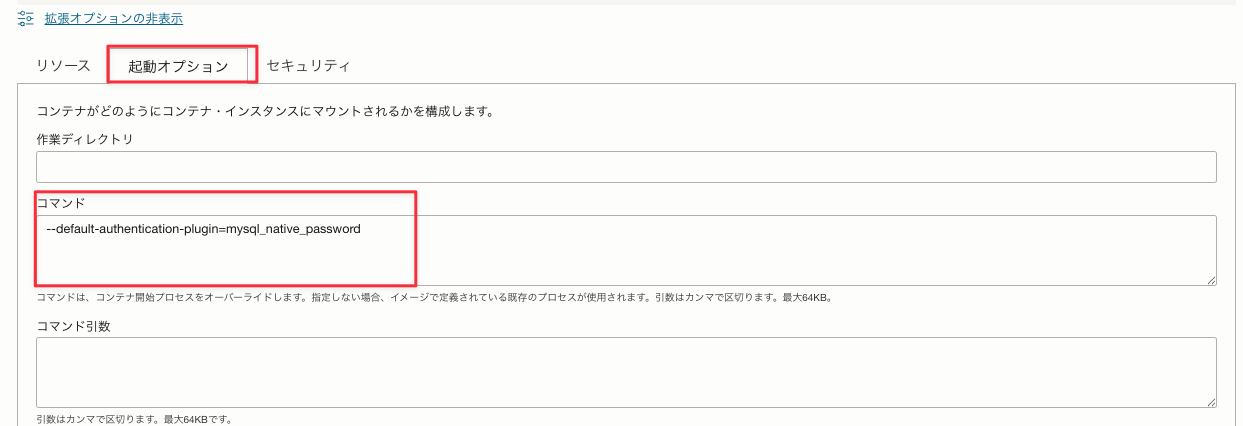
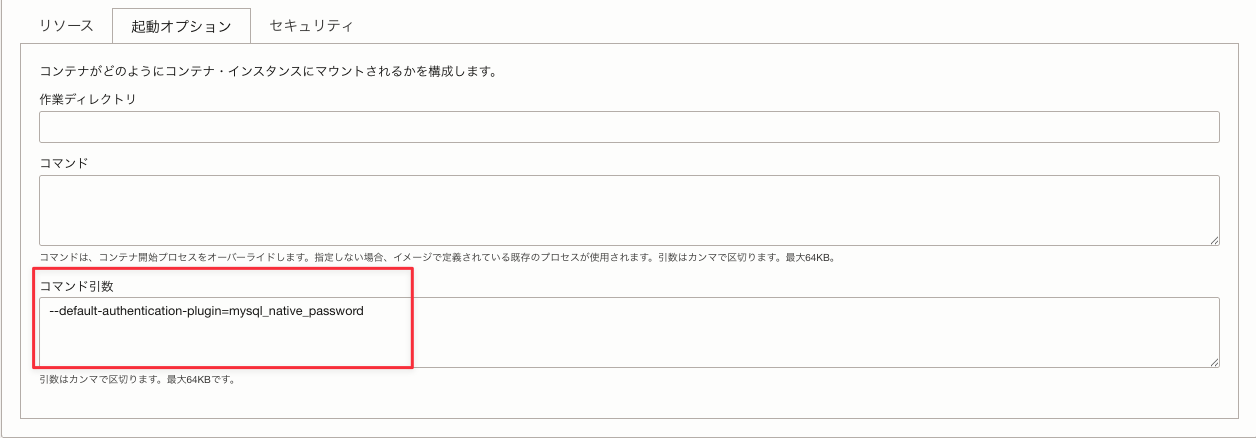
fix bugs

diff --git a/tutorials/_cloud-native/ci-for-beginners.md b/tutorials/_cloud-native/ci-for-beginners.md
@@ -90,10 +90,10 @@ WordPress のデータベースを構成する MySQL イメージを設定しま
 ここでは、各コンテナで消費されるリソース量を指定できます。
 {: .notice--info}
 
-MySQL 8.04 以降、caching_sha2_password プラグインを利用した認証方式がデフォルトとなりました。ここでは、従来の認証方式のプラグイン mysql_native_password に変更します。
+MySQL 8.04 以降、caching_sha2_password プラグインを利用した認証方式がデフォルトとなりました。ここでは、従来の認証方式のプラグイン mysql_native_password に変更します。  
 ※`default`の前はハイフン2個です。
 
-- 「Command arguments」： `--default-authentication-plugin=mysql_native_password`
+- 「コマンド引数」： `--default-authentication-plugin=mysql_native_password`
 
 ![](012.png)
 
